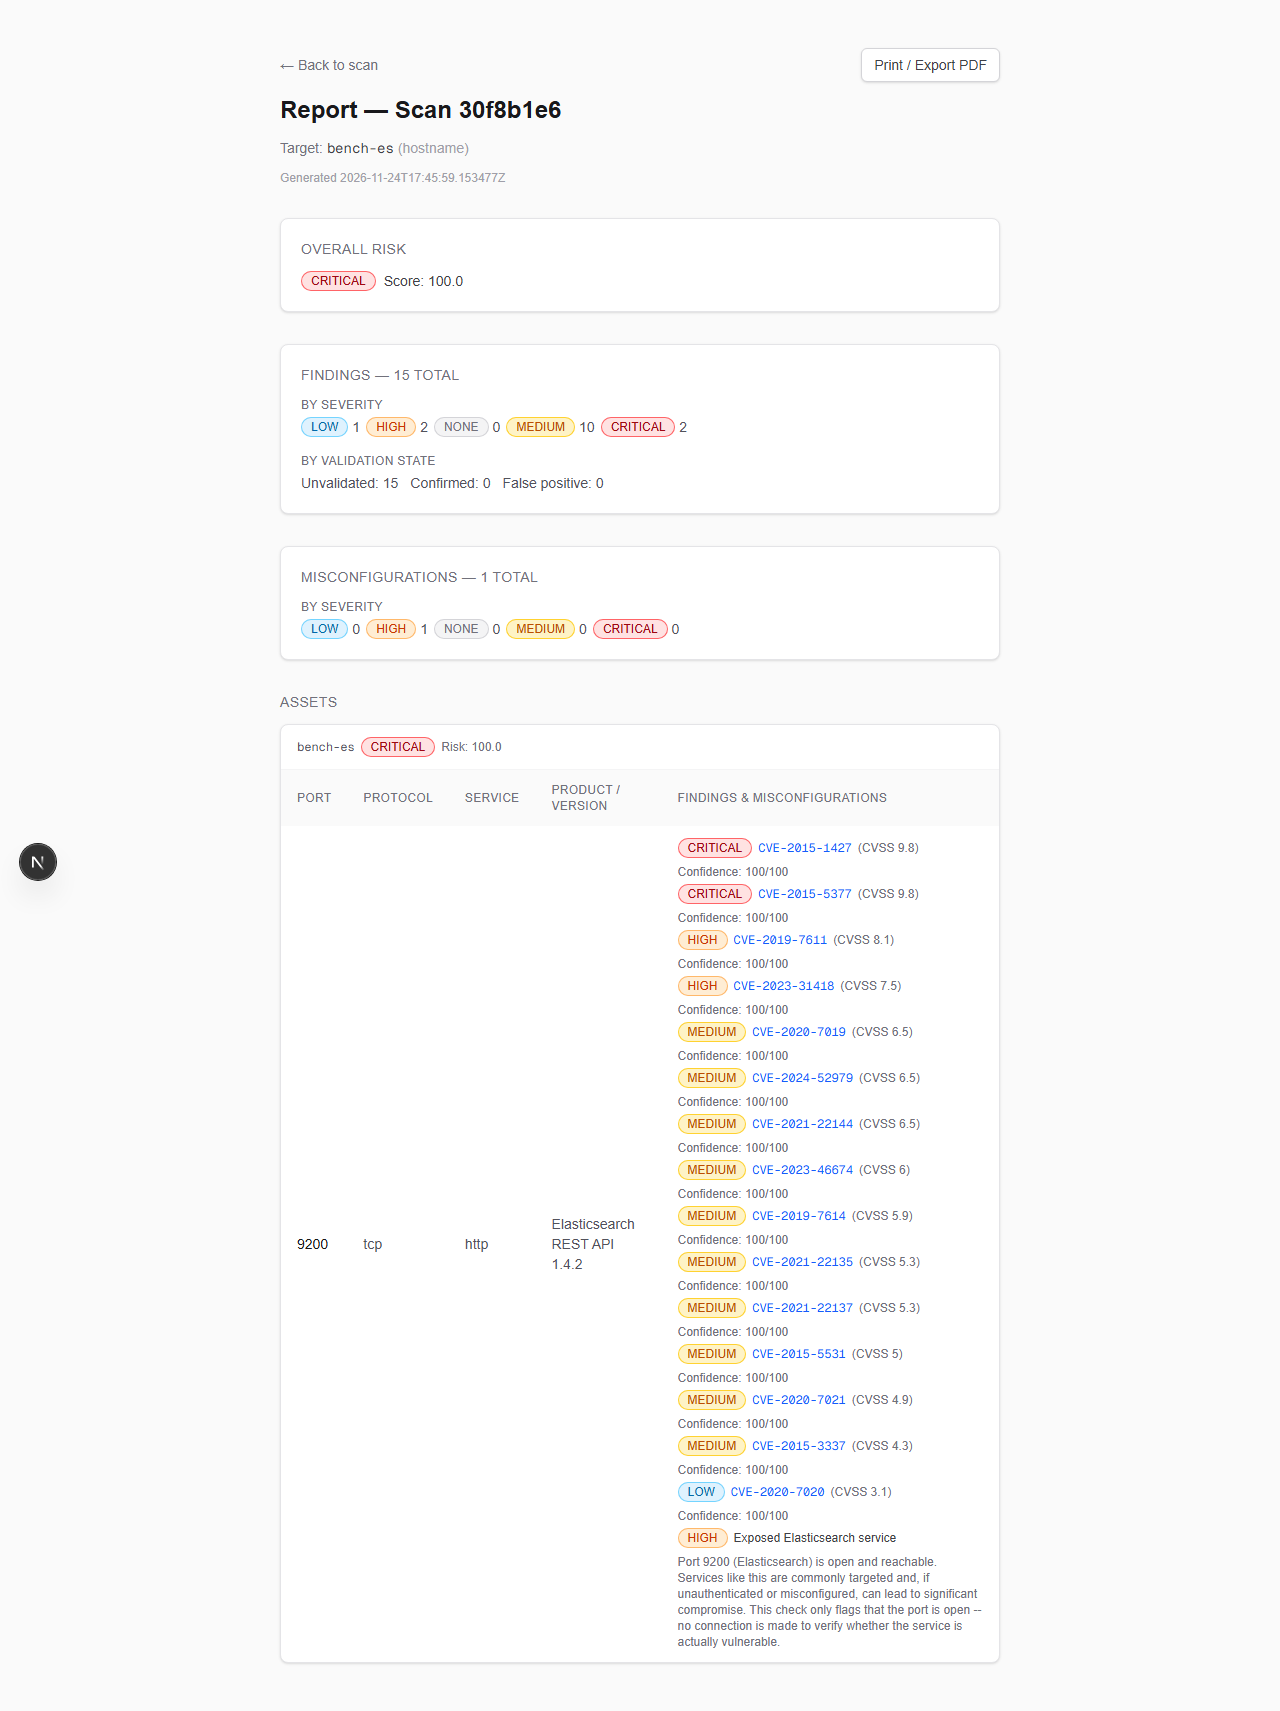
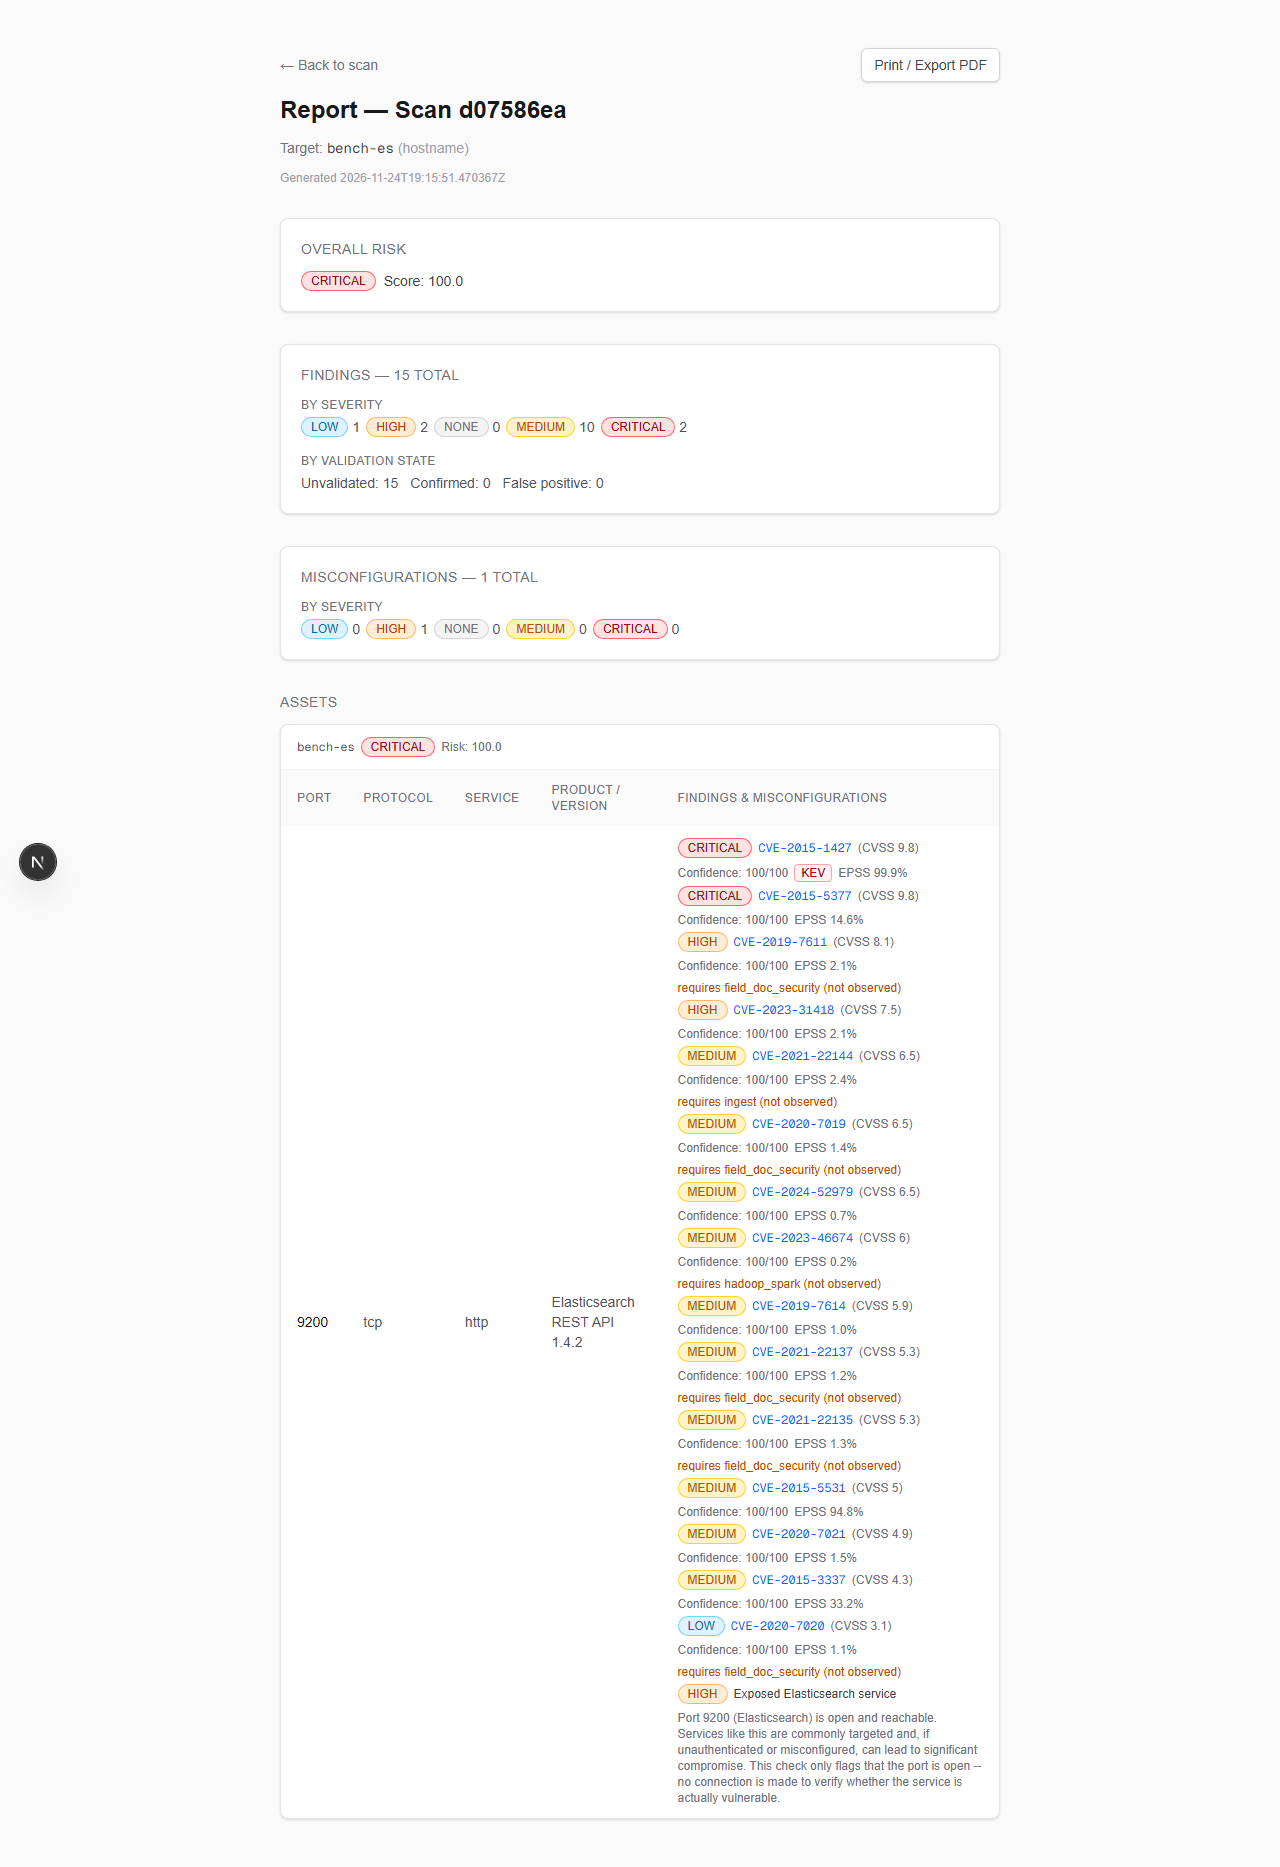
docs: Phase 10 results in README (verbatim pre-registered metrics), screenshots, results index
README: KEV/EPSS and applicability features; new scoring formula; Phase 9
audit totals corrected to 15/49/16 with an errata link; documented-CVE
ranks from the Phase 10 run; a Phase 10 table reporting M1 met, M2 met
in-sample but not under the worst case, M2-heldout NOT met, M3 and M4;
what it does and doesn't show (selection bias, in-sample rules, TLS only
observable); limitations; test count 291 functions / 423 cases.
Screenshots retaken on the Phase 10 UI (KEV badge, EPSS, prerequisite
notes).

diff --git a/README.md b/README.md
@@ -18,6 +18,8 @@ VulnSight discovers what is running on a host, matches it to known CVEs, checks 
 - **Discovery:** native asyncio port scanner, or Nmap `-sV` service/version detection (per-scan setting)
 - **CVE correlation:** fingerprinted services → CPE 2.3 → [NIST NVD CVE API](https://nvd.nist.gov/developers/vulnerabilities); parses CVSS v4.0, v3.1, v3.0 and v2 metrics; 7-day CVE cache in PostgreSQL
 - **Correlation completeness:** each scan records how many CVE lookups did not complete (failed, not stored, or truncated), and the scan and report pages warn when the count is above zero
+- **Exploit likelihood:** every matched CVE is enriched with [CISA KEV](https://www.cisa.gov/known-exploited-vulnerabilities-catalog) membership and its [FIRST EPSS](https://www.first.org/epss/) score (both cached for 24 h), and these drive half of each finding's risk contribution
+- **Applicability flags:** a CVE whose description names a prerequisite feature (HTTP/2, TLS, mod_proxy, DIGEST auth, ...) that wasn't observed on the target is flagged "requires X (not observed)" and discounted; it stays visible
 - **Shared NVD rate limiting:** a Redis + Lua atomic sliding-window limiter keeps every worker process within NVD's public limit of 5 requests per 30 seconds
 - **Evidence confidence (0–100):** Nmap-probed service matches always outrank port-table guesses
 - **Analyst validation:** findings are `unvalidated`, `confirmed` or `false_positive`; false positives drop out of risk scoring
@@ -27,7 +29,7 @@ VulnSight discovers what is running on a host, matches it to known CVEs, checks 
   - 12 sensitive exposed services (Telnet, FTP, SMB, RDP, VNC, Redis, MongoDB, Elasticsearch, Memcached, MySQL, PostgreSQL, Docker Engine API)
 - **Risk scoring:** per-asset and per-scan 0–100 score with CRITICAL / HIGH / MEDIUM / LOW tiers (see below); duplicate CVEs from overlapping CPE matches are counted once
 - **Reports:** per-scan summary (risk, findings by severity and validation state, per-asset/per-service CVEs and misconfigurations) via API and a report page
-- **Quality:** 271 test functions (389 pytest cases with parametrization); GitHub Actions CI runs pytest (with PostgreSQL, Redis and Nmap), ruff, black, mypy, and the Next.js lint/build
+- **Quality:** 291 test functions (423 pytest cases with parametrization); GitHub Actions CI runs pytest (with PostgreSQL, Redis and Nmap), ruff, black, mypy, and the Next.js lint/build
 
 ## Architecture
 
@@ -39,12 +41,19 @@ flowchart LR
     Q --> W["Celery worker"]
     W -- "Nmap / asyncio scan" --> T["Target hosts"]
     W -- "CVE lookups (rate-limited)" --> NVD["NIST NVD API"]
+    W -- "KEV catalog, EPSS scores" --> TI["CISA KEV / FIRST EPSS"]
     W --> DB
 ```
 
 ## How risk is scored
 
-1. **Per finding:** `contribution = CVSS (0-10) x 10 x confidence / 100`. A finding with no CVSS falls back to a severity weight (CRITICAL 90, HIGH 70, MEDIUM 40, LOW 15). False positives contribute 0.
+1. **Per finding:** `contribution = (0.5 x severity + 0.5 x 100 x exploit) x confidence / 100 x applicability`, where:
+   - `severity` = CVSS x 10, or a severity weight when there is no CVSS (CRITICAL 90, HIGH 70, MEDIUM 40, LOW 15);
+   - `exploit` = 1.0 if the CVE is in CISA KEV, else its EPSS probability, else 0;
+   - `applicability` = 0.3 when the CVE needs a prerequisite feature that wasn't observed on the target, else 1.0.
+
+   False positives contribute 0. These constants were fixed in advance in
+   [`benchmarks/phase10-preregistration.md`](benchmarks/phase10-preregistration.md).
 2. **Per misconfiguration:** the same severity weight x 0.6, since a misconfiguration is a weaker signal than a matched CVE.
 3. **Aggregation (noisy-OR):** treat each contribution as a probability *p* and combine `risk = 1 - (1 - p1)(1 - p2)...(1 - pn)`, scaled to 0-100. One severe issue dominates, and many small issues add up without exceeding 100. Assets are scored from their findings, and scans from their assets.
 4. **Tiers:** >= 75 CRITICAL, >= 50 HIGH, >= 25 MEDIUM, > 0 LOW, 0 NONE.
@@ -85,24 +94,29 @@ NVD's own configuration data:
 - In a [manual audit](benchmarks/results/2026-11-24-run6-audit.md) of
   each target's top 10 findings, done with the containers' actual config
   checked:
-  - 16 of 80 were applicable;
-  - 48 were not applicable;
+  - 15 of 80 were applicable;
+  - 49 were not applicable;
   - 16 were unclear.
+- One label in that audit was later found to be wrong and corrected (see
+  [errata](benchmarks/results/ERRATA.md)). The published totals were
+  16/48/16.
 - This is a limit of version-based CVE matching in general, not only
   VulnSight's.
 
 Ranks are shown as best–worst, because many CVEs share the same score.
-For example, CVE-2021-41773 is tied at CVSS 9.8 with 14 others.
+For example, CVE-2021-41773 is tied at CVSS 9.8 with 14 others. The
+VulnSight column is from the Phase 10 run (exploit likelihood +
+applicability, see below). In Phase 9 it was identical to CVSS-only.
 
-| Target | Documented CVE | Detected | Rank, CVSS-only | Rank, VulnSight |
+| Target | Documented CVE | Detected | Rank, CVSS-only | Rank, VulnSight (Phase 10) |
 |---|---|---|---|---|
-| Apache httpd 2.4.49 | CVE-2021-41773 | yes | 1–15 of 88 | 1–15 of 88 |
+| Apache httpd 2.4.49 | CVE-2021-41773 | yes | 1–15 of 88 | 1–2 of 88 |
 | Apache Tomcat 8.5.19 | CVE-2017-12615 | no: not in NVD's config for 8.5.x\* | - | - |
-| Apache Tomcat 9.0.30 | CVE-2020-1938 | yes | 1–9 of 77 | 1–9 of 77 |
-| nginx 1.13.2 | CVE-2017-7529 | yes | 3–8 of 15 | 3–8 of 15 |
-| Elasticsearch 1.4.2 | CVE-2015-1427 | yes | 1–2 of 15 | 1–2 of 15 |
-| Elasticsearch 1.1.1 | CVE-2014-3120 | yes | 3–4 of 17 | 3–4 of 17 |
-| Jetty 9.4.37 | CVE-2021-28164 | yes | 12–18 of 26 | 12–18 of 26 |
+| Apache Tomcat 9.0.30 | CVE-2020-1938 | yes | 1–9 of 77 | 1 of 77 |
+| nginx 1.13.2 | CVE-2017-7529 | yes | 3–8 of 15 | 1 of 15 |
+| Elasticsearch 1.4.2 | CVE-2015-1427 | yes | 1–2 of 15 | 1 of 15 |
+| Elasticsearch 1.1.1 | CVE-2014-3120 | yes | 3–4 of 17 | 2 of 17 |
+| Jetty 9.4.37 | CVE-2021-28164 | yes | 12–18 of 26 | 2 of 26 |
 | MySQL 5.5.23 | CVE-2012-2122 | no: not in NVD's config for 5.5.23\* | - | - |
 
 \* Classified as "not version-matchable" by checking NVD after the run,
@@ -128,12 +142,48 @@ truncation artefact.
 - Every run is kept as recorded in `benchmarks/results/`. None of them is
   a blind or held-out measurement.
 
-**Ranking is not better than CVSS yet.**
-- CVSS-only and VulnSight ordering were identical: mean rank of detected
-  documented CVEs was 3.5–9.3 for both. Every finding came from a direct
-  Nmap probe at the same confidence.
-- Ordering by exploit likelihood (CISA KEV, EPSS) is the next step. On
-  its own it reorders findings but can't drop the 48 that don't apply.
+### Phase 10: exploit likelihood and applicability
+
+Before any code was written, the following were committed in
+[`benchmarks/phase10-preregistration.md`](benchmarks/phase10-preregistration.md):
+- the scoring formula and its constants;
+- four metrics with pass/fail criteria;
+- 3 new **held-out** targets (nginx 1.4.2, php 5.4.1-cgi, postgres
+  9.6.7) that had never been scanned or audited.
+
+Applicability labels for CVEs not covered by the Phase 9 audit were made
+**blind**:
+- by a fresh-context agent;
+- from a sheet holding only each CVE's id and description, plus raw
+  container config facts;
+- with no score, rank, flag or rule list in view.
+
+Everything is in [`benchmarks/results/`](benchmarks/results/) under
+`2026-11-24-1914-*`. The [metrics file](benchmarks/results/2026-11-24-1914-metrics.md)
+reports them verbatim, including what failed:
+
+| Metric (pre-registered) | Result | Criterion |
+|---|---|---|
+| M1: rank of the documented CVEs | VulnSight mean 1.3–1.5 vs CVSS-only 3.5–9.3 | **met** |
+| M2: not-applicable CVEs in each top 10, original 8 targets (in-sample) | 25 of 80, down from 49; applicable up from 15 to 29 | **met** (N ≤ 36 and A ≥ 16). **Not met** under the pre-registered worst case (unclear counted as not applicable: 38) |
+| M2-heldout: same, on the 3 never-audited targets (out-of-sample) | VulnSight 20 not applicable, 4 applicable vs CVSS-only 24 and 5 | **not met** (needed ≤ 18 with applicable not lower) |
+| M3: harm | No documented CVE flagged or ranked worse; 135 of 726 matches flagged (21 rule features) | reported |
+| M4: recall | 6 of 8 kept; held-out 2 of 3 (php's CGI version isn't visible to Nmap) | **met** |
+
+**What this does and doesn't show.**
+- KEV/EPSS moves the documented, known-exploited CVEs to the top. That is
+  expected by construction: vulhub picks famous exploited CVEs, and their
+  KEV/EPSS values were seen before the weights were fixed. It shows the
+  ordering does what KEV/EPSS is meant to do, not general ranking skill.
+- The applicability rules cut not-applicable matches on the targets they
+  were written from. On the held-out targets they didn't pass the
+  pre-registered bar. Out of sample, the keyword rules help only a
+  little.
+- Only TLS is observable today. HTTP/2 and modules never are, so a
+  flagged CVE means "not seen", not "absent".
+- The first Phase 10 run was INVALID: concurrent scans hit NVD rate
+  limits. The harness now runs scans one at a time (harness change only),
+  and the valid run used the same app code.
 
 ## API
 
@@ -292,7 +342,8 @@ never built fails on every dynamic route with `Cannot find name
 ## Limitations and roadmap
 
 - No user accounts or authentication yet: run it locally or on a trusted network only.
-- Prioritisation uses CVSS and evidence confidence; exploit likelihood (EPSS) and CISA KEV are not used yet.
+- Applicability flags are keyword rules over NVD descriptions. Only TLS is observable (from Nmap). On held-out targets they didn't meet the pre-registered improvement bar (see Benchmark).
+- KEV/EPSS weighting ranks known-exploited CVEs first. The benchmark shows the mechanism works, not that it ranks better than CVSS in general.
 - Reports are JSON and a web page; no PDF export yet.
 - Scoring weights are first-pass judgement calls, not tuned against large real-world scan data.
 - CVE matching is version-based. It can't tell whether the vulnerable

diff --git a/benchmarks/results/README.md b/benchmarks/results/README.md
@@ -35,3 +35,24 @@ itself. **Run 6 is the published result.**
 
 All fixes behind runs 2–4 were made after seeing earlier runs on the
 same targets. **These are benchmark-informed numbers, not blind ones.**
+
+## Phase 10 (exploit likelihood + applicability)
+
+Pre-registration: [`../phase10-preregistration.md`](../phase10-preregistration.md),
+committed before any Phase 10 code.
+
+| Run | App code | Valid | What happened |
+|---|---|---|---|
+| [2026-11-24-1910](2026-11-24-1910.md) | `ed38b95` | no | 11 scans queued at once. NVD answered 429 to one lookup, and the rate limiter's 60 s wait expired for another. Its label sheet was discarded unused. |
+| [2026-11-24-1914](2026-11-24-1914.md) | `ed38b95`; harness `f12b09c` runs scans one at a time | **yes** | Published Phase 10 result. |
+
+Files for the published run (all under `2026-11-24-1914`):
+
+| File | What it holds | Committed |
+|---|---|---|
+| [labelsheet](2026-11-24-1914-labelsheet.md) | The blind sheet | Before labelling |
+| [labeller-facts](2026-11-24-1914-labeller-facts.md) | The raw container facts the labeller was given | With the labels |
+| [labels](2026-11-24-1914-labels.json) | The labels, plus a `method` note including a Jetty facts correction | Before scoring |
+| [metrics](2026-11-24-1914-metrics.md) | M1–M4 and M2-heldout, computed by `../score_labels.py` | After the labels |
+
+Corrections are in [ERRATA.md](ERRATA.md).

diff --git a/benchmarks/README.md b/benchmarks/README.md
@@ -70,6 +70,17 @@ docker compose run --rm -v ./benchmarks:/benchmarks \
 Results land in `benchmarks/results/`. See `results/README.md` for every
 recorded run.
 
+**Phase 10** adds:
+- 3 held-out targets (`expected-heldout.json`);
+- a threat-intel validity check: KEV/EPSS fetches must succeed;
+- a blind label sheet per run;
+- `score_labels.py`, which computes the metrics pre-registered in
+  `phase10-preregistration.md` from committed labels:
+  `py score_labels.py results/<run>.json results/<run>-labels.json`.
+
+Scans run one at a time, so a cold-cache run stays within NVD's rate
+limit.
+
 Without an NVD API key the limit is 5 requests per 30 s, shared by all
 scans. A cold-cache run of all 8 targets makes 13 CPE lookups, aliases
 included (about 15 NVD requests with MySQL's extra pages). The last ones can wait close to the rate limiter's 60 s
